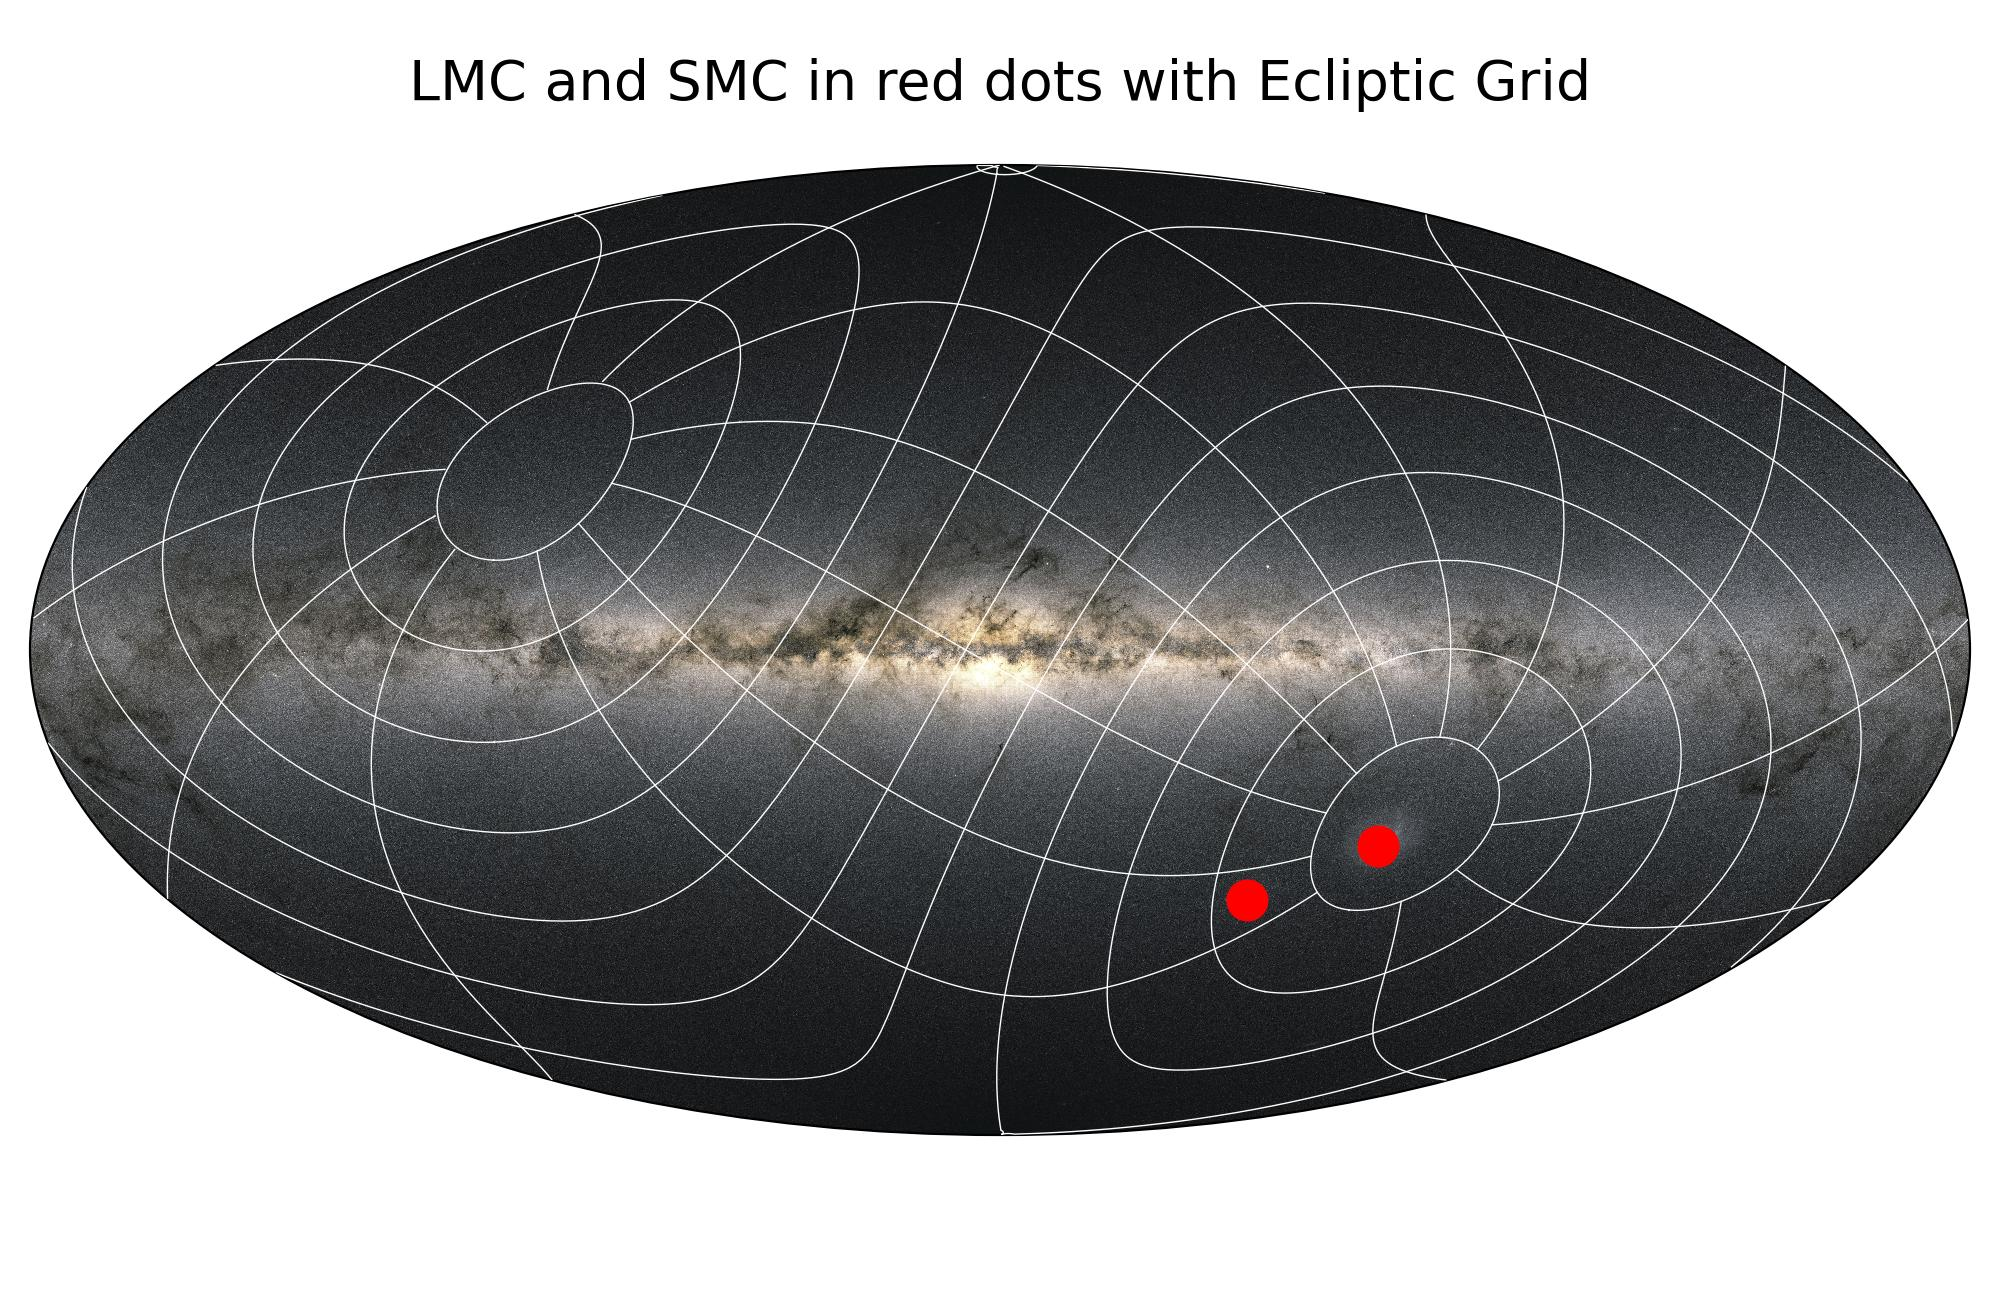
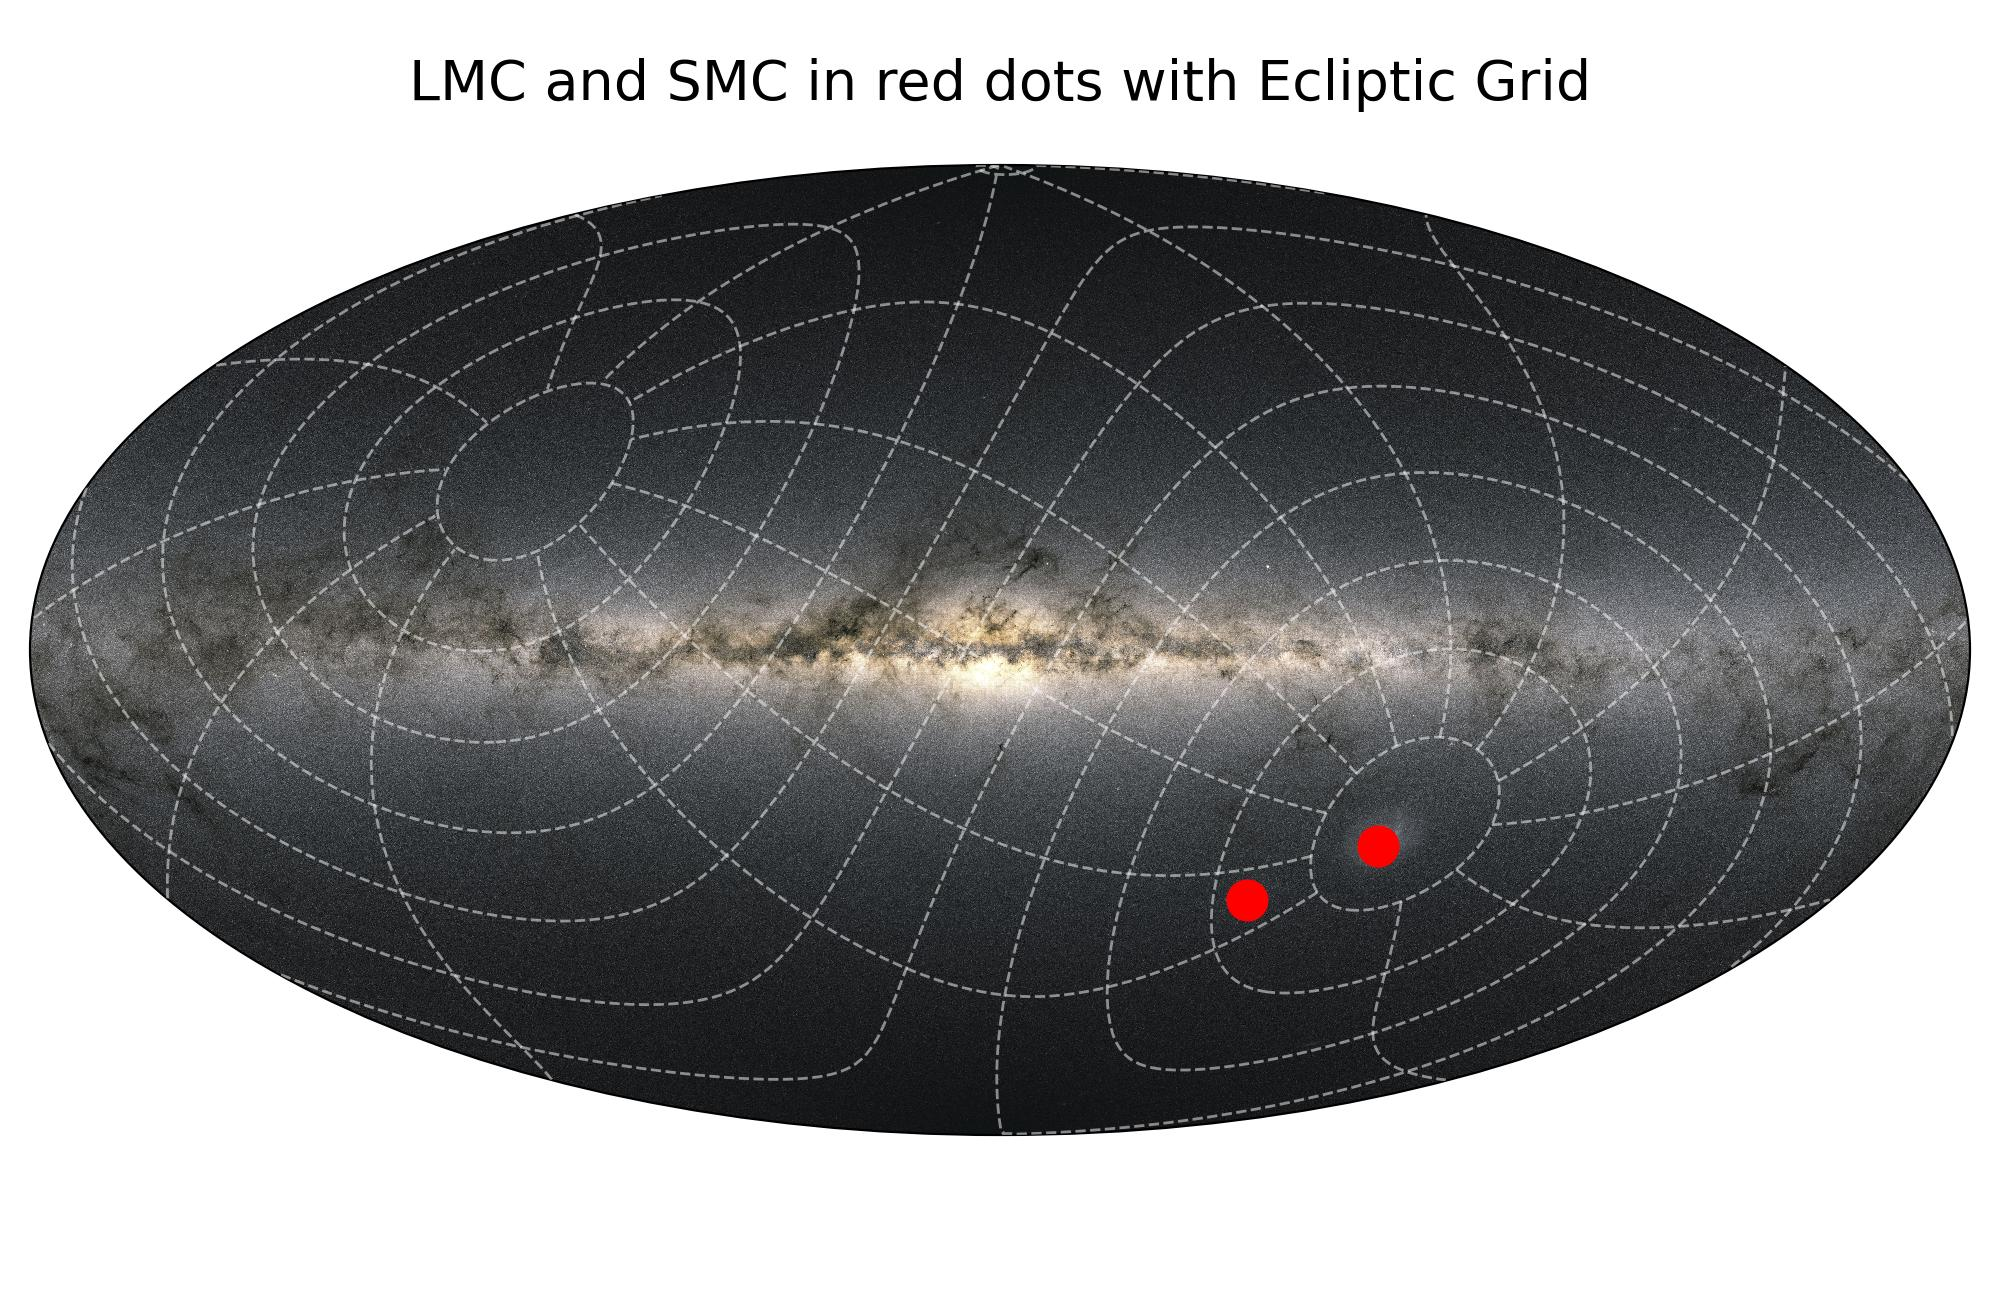
update default grid style

diff --git a/mw_plot/mw_plot_matplotlib.py b/mw_plot/mw_plot_matplotlib.py
@@ -636,6 +636,10 @@ class MWSkyMap(MWSkyMapMaster):
                 ax.set_title(self.title, fontsize=self.fontsize, y=1.05)
             self.fig, self.ax = fig, ax
 
+            grad_alpha = 0.5
+            grid_width = 1.0
+            grid_style = "--"
+
             self._initialized = True
             if self.grid is True:
                 for i in [0, -15, 15, -30, 30, -45, 45, -60, 60, -75, 75]:
@@ -643,16 +647,20 @@ class MWSkyMap(MWSkyMapMaster):
                         self._fake_rad2deg(np.deg2rad([-180, 180])),
                         self._fake_rad2deg(np.deg2rad([i, i])),
                         c=self._opposite_color,
-                        lw=0.5,
+                        lw=grid_width,
+                        ls=grid_style,
                         zorder=3,
+                        alpha=grad_alpha,
                     )
                 for i in [-150, -120, -90, -60, -30, 0, 30, 60, 90, 120, 150]:
                     self.ax.plot(
                         self._fake_rad2deg(np.deg2rad([i, i])),
                         self._fake_rad2deg(np.deg2rad([-75, 75])),
                         c=self._opposite_color,
-                        lw=0.5,
+                        lw=grid_width,
+                        ls=grid_style,
                         zorder=3,
+                        alpha=grad_alpha,
                     )
             else:
                 # disable ticks if not galactic grid
@@ -669,7 +677,13 @@ class MWSkyMap(MWSkyMapMaster):
                         l = np.concatenate([l[idx:], l[:idx]])
                         b = np.concatenate([b[idx:], b[:idx]])
                     self.ax.plot(
-                        self._fake_rad2deg(np.deg2rad(l)), self._fake_rad2deg(np.deg2rad(b)), c="white", lw=0.5, zorder=3
+                        self._fake_rad2deg(np.deg2rad(l)),
+                        self._fake_rad2deg(np.deg2rad(b)),
+                        c=self._opposite_color,
+                        lw=grid_width,
+                        ls=grid_style,
+                        zorder=3,
+                        alpha=grad_alpha,
                     )
 
                 for i in [30, 60, 90, 120, 150, 180, 210, 240, 270, 300, 330]:
@@ -686,29 +700,40 @@ class MWSkyMap(MWSkyMapMaster):
                         self.ax.plot(
                             self._fake_rad2deg(np.deg2rad(l[:idx_break])),
                             self._fake_rad2deg(np.deg2rad(b[:idx_break])),
-                            c="white",
-                            lw=0.5,
+                            c=self._opposite_color,
+                            lw=grid_width,
+                            ls=grid_style,
                             zorder=3,
+                            alpha=grad_alpha,
                         )
                         self.ax.plot(
                             self._fake_rad2deg(np.deg2rad(l[idx_break + 1 :])),
                             self._fake_rad2deg(np.deg2rad(b[idx_break + 1 :])),
-                            c="white",
-                            lw=0.5,
+                            c=self._opposite_color,
+                            lw=grid_width,
+                            ls=grid_style,
                             zorder=3,
+                            alpha=grad_alpha,
                         )
                     else:
                         self.ax.plot(
-                            self._fake_rad2deg(np.deg2rad(l)), self._fake_rad2deg(np.deg2rad(b)), c="white", lw=0.5, zorder=3
+                            self._fake_rad2deg(np.deg2rad(l)),
+                            self._fake_rad2deg(np.deg2rad(b)),
+                            c=self._opposite_color,
+                            lw=grid_width,
+                            ls=grid_style,
+                            zorder=3,
+                            alpha=grad_alpha,
                         )
 
             if self.eclgrid is True:
+
                 def ecl_to_lb(elon, elat):
                     """
                     elon and elat in radian
                     """
                     e = 23.43928083333333 / 180 * np.pi
-                    atan_top = (np.sin(elon) * np.cos(e) - np.tan(elat) * np.sin(e))
+                    atan_top = np.sin(elon) * np.cos(e) - np.tan(elat) * np.sin(e)
                     atan_bottom = np.cos(elon)
                     ra = np.arctan(atan_top / atan_bottom)
                     dec = np.arcsin(
@@ -719,8 +744,8 @@ class MWSkyMap(MWSkyMapMaster):
                     case_2_idx = (atan_top < 0) & (atan_bottom > 0)
                     case_3_idx = (atan_top < 0) & (atan_bottom < 0)
                     ra[case_1_idx] += np.pi
-                    ra[case_2_idx] += 2*np.pi
-                    ra[case_3_idx] += 3*np.pi
+                    ra[case_2_idx] += 2 * np.pi
+                    ra[case_3_idx] += 3 * np.pi
                     l, b = radec_to_lb(ra, dec).T
                     l = -(l + np.pi) % (2 * np.pi) - np.pi
                     return l, b
@@ -733,7 +758,15 @@ class MWSkyMap(MWSkyMapMaster):
                         idx = np.argmax(np.diff(l)) + 1
                         l = np.concatenate([l[idx:], l[:idx]])
                         b = np.concatenate([b[idx:], b[:idx]])
-                    self.ax.plot(self._fake_rad2deg(l), self._fake_rad2deg(b), c="white", lw=0.5, zorder=3)
+                    self.ax.plot(
+                        self._fake_rad2deg(l),
+                        self._fake_rad2deg(b),
+                        c=self._opposite_color,
+                        lw=grid_width,
+                        ls=grid_style,
+                        zorder=3,
+                        alpha=grad_alpha,
+                    )
 
                 for i in [30, 60, 90, 120, 150, 180, 210, 240, 270, 300, 330]:
                     elon = np.linspace(i, i, 360)
@@ -748,19 +781,31 @@ class MWSkyMap(MWSkyMapMaster):
                         self.ax.plot(
                             self._fake_rad2deg(l[:idx_break]),
                             self._fake_rad2deg(b[:idx_break]),
-                            c="white",
-                            lw=0.5,
+                            c=self._opposite_color,
+                            lw=grid_width,
+                            ls=grid_style,
                             zorder=3,
+                            alpha=grad_alpha,
                         )
                         self.ax.plot(
                             self._fake_rad2deg(l[idx_break + 1 :]),
                             self._fake_rad2deg(b[idx_break + 1 :]),
-                            c="white",
-                            lw=0.5,
+                            c=self._opposite_color,
+                            lw=grid_width,
+                            ls=grid_style,
                             zorder=3,
+                            alpha=grad_alpha,
                         )
                     else:
-                        self.ax.plot(self._fake_rad2deg(l), self._fake_rad2deg(b), c="white", lw=0.5, zorder=3)
+                        self.ax.plot(
+                            self._fake_rad2deg(l),
+                            self._fake_rad2deg(b),
+                            c=self._opposite_color,
+                            lw=grid_width,
+                            ls=grid_style,
+                            zorder=3,
+                            alpha=grad_alpha,
+                        )
 
     def show(self, *args, **kwargs):
         if self.fig is None:
